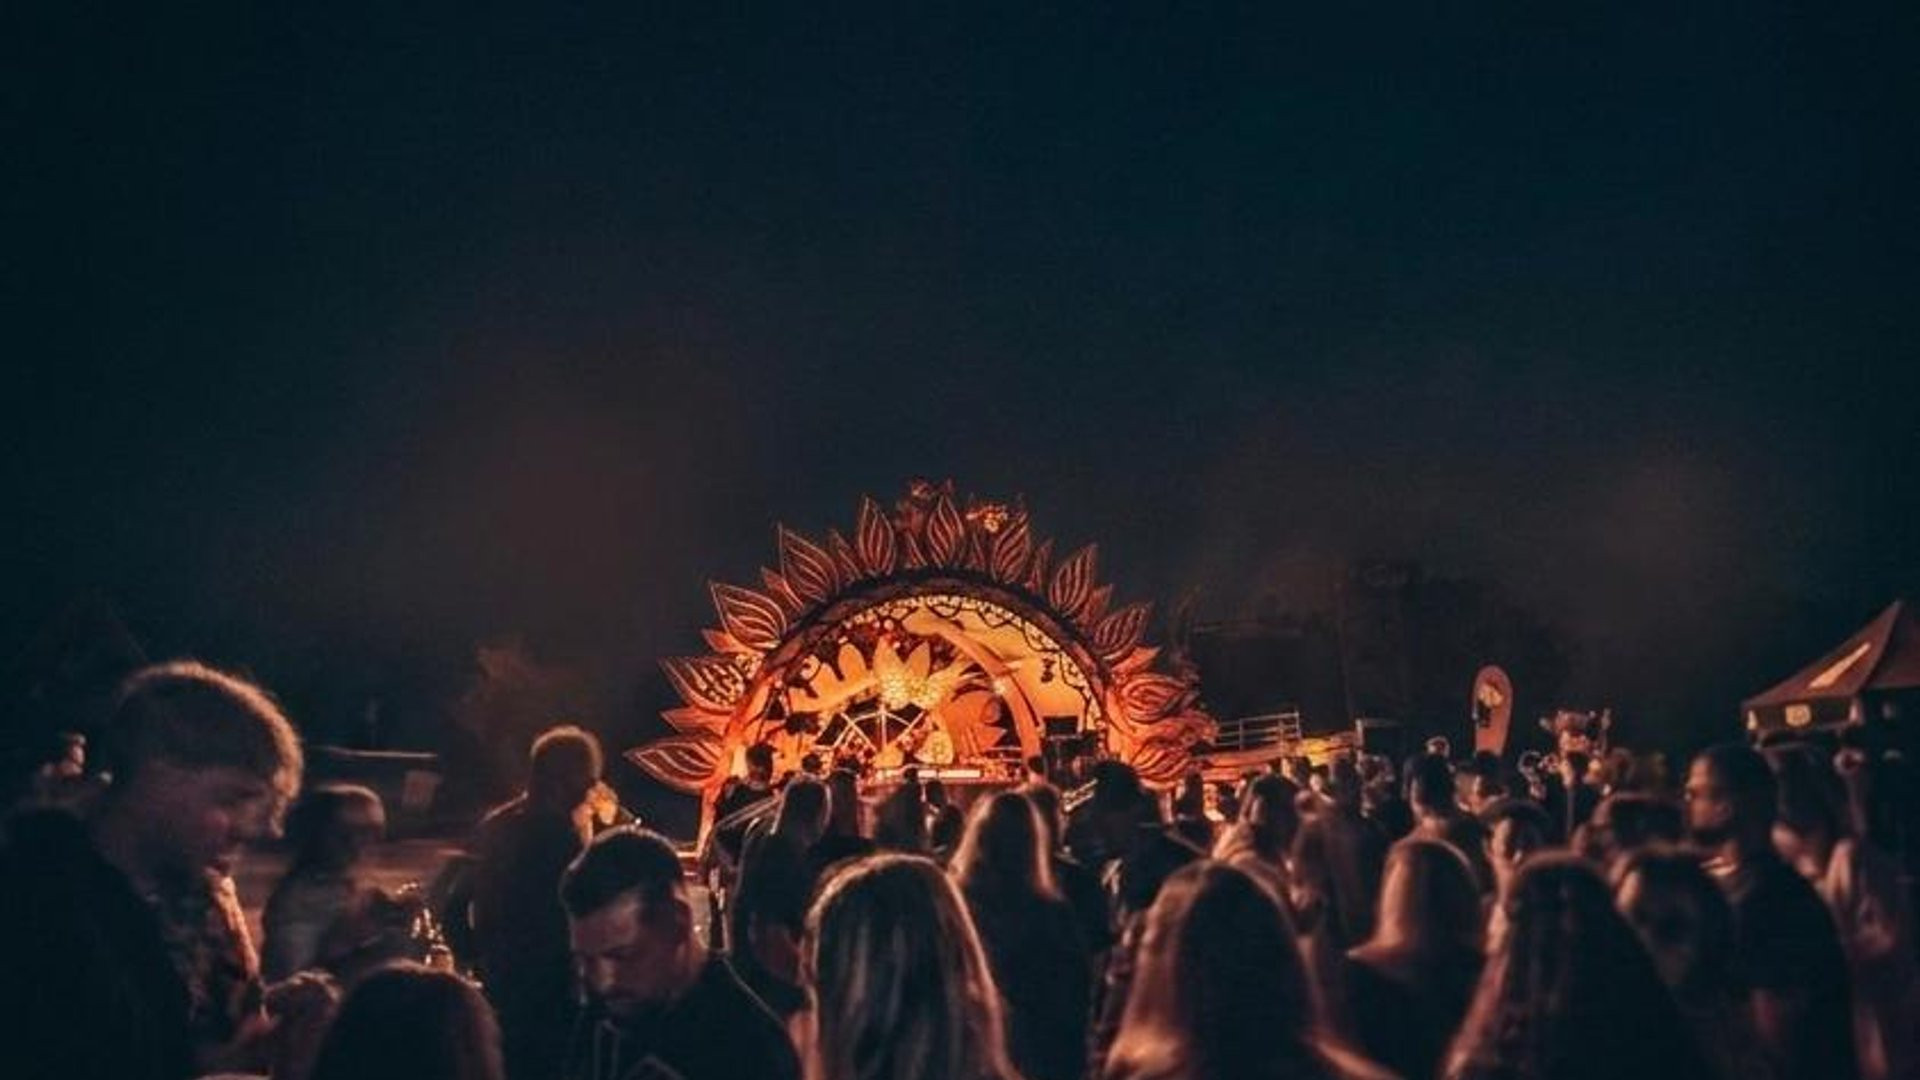
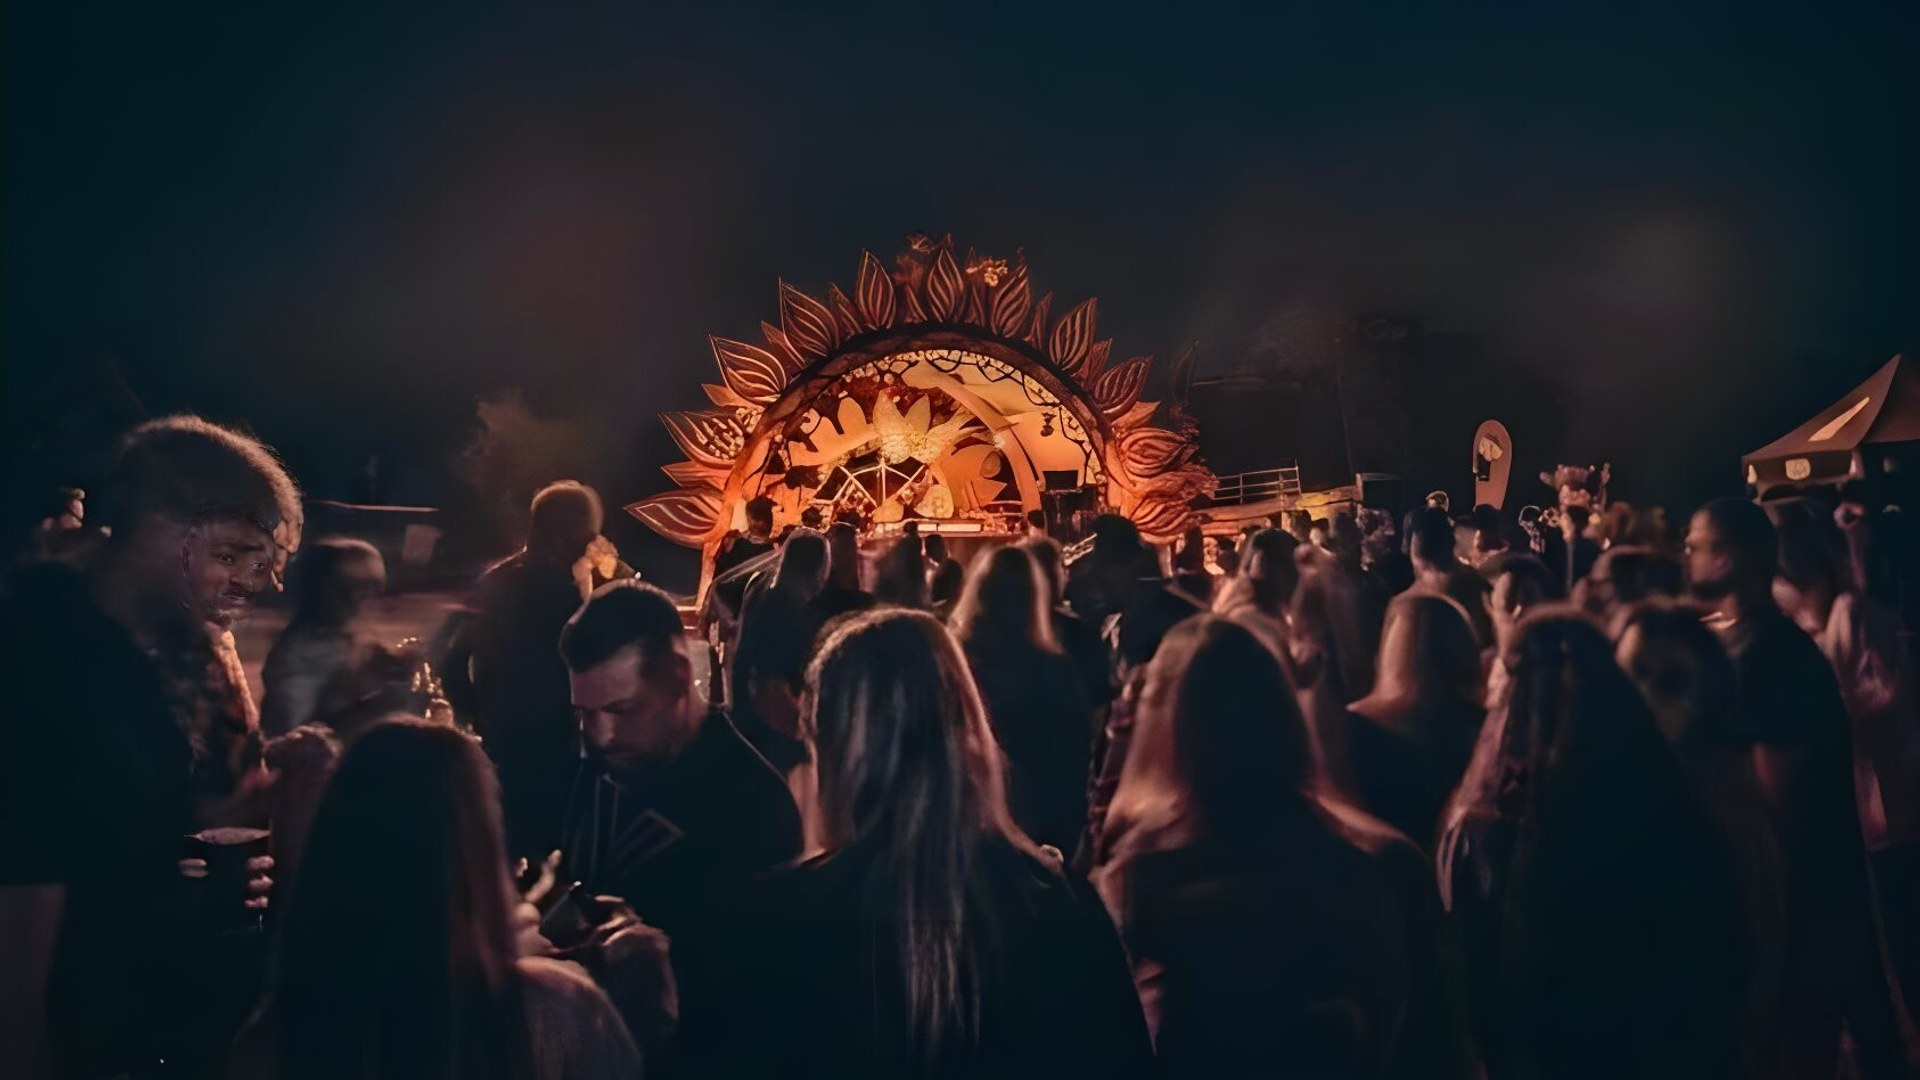
Mobile optimization: portrait hero image, countdown 3-col, comprehensive mobile CSS

diff --git a/public/css/style.css b/public/css/style.css
@@ -1882,20 +1882,28 @@ body {
     font-size: 12px;
   }
 
-  /* Countdown 2x2 */
+  /* Countdown — 3 pe un rând */
   .countdown {
     display: grid;
-    grid-template-columns: 1fr 1fr;
+    grid-template-columns: repeat(3, 1fr);
+    gap: 8px;
     margin-top: 40px;
+    max-width: 280px;
+    margin-left: auto;
+    margin-right: auto;
   }
 
   .cd-card {
-    padding: 16px 20px;
+    padding: 10px 8px;
     min-width: 0;
   }
 
   .cd-num {
-    font-size: 2.2rem;
+    font-size: 1.8rem;
+  }
+
+  .cd-label {
+    font-size: 10px;
   }
 
   /* Cazare */
@@ -2126,24 +2134,46 @@ body {
 }
 
 /* ============================================================
-   MOBILE OPTIMIZATIONS — comprehensive
+   MOBILE OPTIMIZATIONS — comprehensive (≤480px)
    ============================================================ */
 
 @media (max-width: 480px) {
 
-  /* Hero */
+  /* Hero — imagine portrait */
+  .hero {
+    background-image: url('/images/hero-bg-mobile.jpg');
+    background-position: center center;
+    min-height: 100svh;
+    padding-bottom: 60px;
+  }
+
+  .hero-content {
+    padding: 0 20px;
+    width: 100%;
+  }
+
   .hero-title {
-    font-size: clamp(3.5rem, 18vw, 6rem);
+    font-size: clamp(3.2rem, 17vw, 5.5rem);
   }
+
   .hero-sub {
-    font-size: 13px;
+    font-size: 12px;
+    letter-spacing: 4px;
   }
+
   .hero-tagline {
     font-size: 13px;
   }
+
   .hero-cta {
-    padding: 12px 24px;
+    padding: 13px 28px;
     font-size: 12px;
+    margin-top: 20px;
+  }
+
+  .hero-note {
+    font-size: 12px;
+    margin-top: 8px;
   }
 
   /* Section headings */
@@ -2151,67 +2181,104 @@ body {
     font-size: clamp(2rem, 10vw, 3rem);
   }
 
-  /* Gallery marquee — smaller images on mobile */
-  .gallery-item {
-    width: 260px;
-    height: 360px;
-  }
-  .gallery-overlay-text {
-    padding: 24px 0 0 5%;
-  }
-  .gallery-overlay-text p {
-    font-size: clamp(1.4rem, 7vw, 2.2rem);
+  /* Container padding */
+  .container {
+    padding: 0 16px;
   }
 
-  /* Artists grid — 2 columns filling width */
+  /* Strip */
+  .strip {
+    padding: 28px 0;
+  }
+
+  /* Gallery marquee */
+  .gallery-item {
+    width: 240px;
+    height: 320px;
+  }
+  .gallery-overlay-text {
+    padding: 20px 0 0 5%;
+  }
+  .gallery-overlay-text p {
+    font-size: clamp(1.3rem, 7vw, 2rem);
+  }
+
+  /* Artists grid — 2 coloane */
   .lineup-grid {
     grid-template-columns: repeat(2, 1fr);
     width: 100%;
-    padding: 0 16px;
+    padding: 0;
     box-sizing: border-box;
+    gap: 8px;
   }
   .lineup-card {
     width: 100%;
-    height: 160px;
+    height: 155px;
   }
   .lineup-card-title {
-    font-size: 1.5rem;
+    font-size: 1.3rem;
+  }
+  .lineup-sub {
+    font-size: 12px;
   }
 
   /* Split sections */
-  .split {
-    flex-direction: column;
-  }
+  .split,
   .split-reverse {
-    flex-direction: column;
+    grid-template-columns: 1fr;
+    direction: ltr;
+    min-height: auto;
   }
-  .split-img,
-  .split-text {
-    width: 100%;
-  }
-  .split-img {
-    height: 260px;
-  }
+  .split-reverse > * { direction: ltr; }
+  .split .split-img,
+  .split-reverse .split-img { order: -1; }
+  .split-img { height: 240px; }
+  .split-img img { min-height: 240px; }
+  .split-text { padding: 32px 20px; }
+  .split-body { max-width: 100%; font-size: 14px; }
 
-  /* Venue cards */
-  .venue-cards {
-    flex-direction: column;
-  }
+  /* About */
+  .about-inner { padding: 40px 20px; }
 
-  /* Cazare grid */
+  /* Venue */
+  .venue-cards { grid-template-columns: 1fr; }
+  .venue-map { height: 220px; }
+
+  /* Cazare */
   .cazare-grid {
     grid-template-columns: 1fr;
+    max-width: 100%;
   }
+  .cazare-card { max-width: 100%; }
 
-  /* Activitati grid */
+  /* Activitati */
   .activitati-grid {
     grid-template-columns: 1fr;
+    gap: 12px;
   }
+  .activitati { padding: 50px 0; }
+
+  /* FAQ */
+  .faq { padding: 50px 0; }
+  .faq-q { font-size: 14px; padding: 16px 0; }
+
+  /* Sponsors */
+  .sponsors-row { gap: 12px; }
+  .sponsor-item--text {
+    font-size: 13px;
+    padding: 6px 14px;
+  }
+  .become-sponsor-btn { font-size: 12px; padding: 10px 20px; }
+
+  /* Email capture */
+  .email-form { flex-direction: column; }
+  .email-input,
+  .email-btn { width: 100%; box-sizing: border-box; }
 
   /* Footer */
   .footer-grid {
     grid-template-columns: 1fr;
-    gap: 32px;
+    gap: 28px;
     text-align: center;
   }
   .footer-col--center nav {
@@ -2220,25 +2287,6 @@ body {
     justify-content: center;
     gap: 8px 16px;
   }
-  .footer-col--right {
-    align-items: center;
-  }
-
-  /* Email capture */
-  .email-form {
-    flex-direction: column;
-  }
-  .email-input,
-  .email-btn {
-    width: 100%;
-  }
-
-  /* Sponsors */
-  .sponsors-row {
-    gap: 16px;
-  }
-  .sponsor-item--text {
-    font-size: 0.85rem;
-    padding: 6px 14px;
-  }
+  .footer-col--right { align-items: center; }
+  .footer-logo { font-size: 1.2rem; }
 }

diff --git a/public/js/main.js b/public/js/main.js
@@ -71,11 +71,10 @@ function tick() {
   animateDigit(elDays,  pad(Math.floor(diff / 864e5)));
   animateDigit(elHours, pad(Math.floor((diff / 36e5) % 24)));
   animateDigit(elMins,  pad(Math.floor((diff / 6e4) % 60)));
-  animateDigit(elSecs,  pad(Math.floor((diff / 1e3) % 60)));
 }
 
 // Style the digit elements for transition
-[elDays, elHours, elMins, elSecs].forEach(el => {
+[elDays, elHours, elMins].forEach(el => {
   el.style.display    = 'inline-block';
   el.style.transition = 'transform 0.15s ease, opacity 0.15s ease';
 });

diff --git a/public/index.html b/public/index.html
@@ -177,10 +177,6 @@
           <span class="cd-num" id="cd-mins">00</span>
           <span class="cd-label">Minutes</span>
         </div>
-        <div class="cd-card">
-          <span class="cd-num" id="cd-secs">00</span>
-          <span class="cd-label">Seconds</span>
-        </div>
       </div>
     </div>
   </section>
